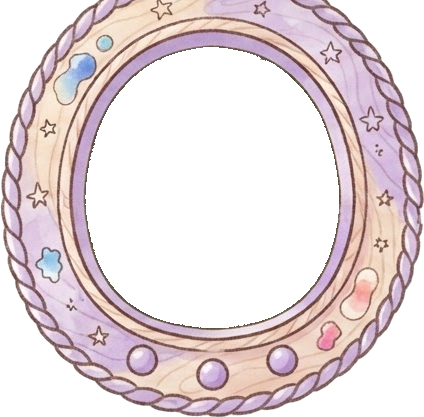
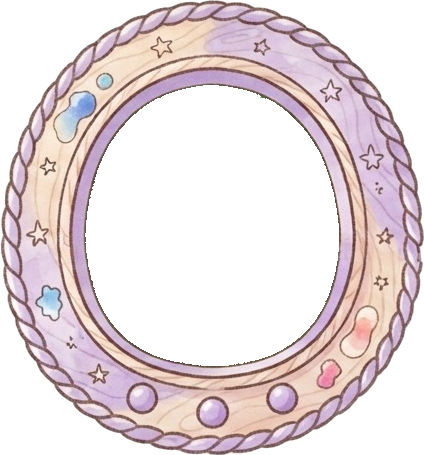
Tama : cadre entier, explications de Kykah et Koki à l'achat, plus d'œuf de Gaïkin
Claude-Session: https://claude.ai/code/session_014bi368SbjZ4sCSmbjCzFcj

diff --git a/game.js b/game.js
@@ -539,6 +539,7 @@ function load(n) {
   if (isFinite(s.dayT)) dayT = s.dayT; Object.assign(inv, s.inv); Object.assign(qState, s.qState); Object.assign(opened, s.opened || {}); Object.assign(bonusStar, s.bonusStar || {}); setLevel(s.level || 'aventure'); Object.assign(coll, s.coll || {});
   phase = s.phase === 'reveal' ? 'appeared' : (s.phase || 'quests'); mountUnlocked = !!s.mountUnlocked; introSeen = !!s.introSeen; endingSeen = !!s.endingSeen; rideT = 0;
   if (s.post) post = Object.assign({ day: -1, reqs: [], nd: 0, ring: null, fea: null, mus: {}, egg: 0, eggDay: 0, stk: [] }, s.post); else post = { day: -1, reqs: [], nd: 0, ring: null, fea: null, mus: {}, egg: 0, eggDay: 0, stk: [] }; lastPos = s.pos || null; saveTs = s.ts || 0; playerName = typeof s.name === 'string' ? s.name.slice(0, 16) : ''; setOutfit(s.outfit); Object.assign(mini, { fire: 0, wish: 0, rico: 0, neck: 0 }, s.mini || {});
+  post.egg = 9;   // les bébés cygnes vivent maintenant dans le Tama (plus d'œuf ni de nid sur la plage)
   if (Array.isArray(s.garden)) gd = gdEmpty().map((e, i) => { const o = s.garden[i] || {}; return { c: Number.isInteger(o.c) && o.c >= 0 && o.c < 6 ? o.c : -1, w: +o.w ? 1 : 0, e: isFinite(o.e) ? Math.max(0, +o.e) : (o.w > 1 ? Math.min(240, (Date.now() - o.w) / 1000) : 0), v: (o.v | 0) & 3 }; });
   if (s.kob) { kobPick = s.kob.p || {}; kobNew = s.kob.n || {}; kobQ = s.kob.q | 0; vetS = s.kob.v || {}; vetAdv = s.kob.a || {}; kobRx = s.kob.x || {}; kobD = Object.assign({ acc: {}, done: {}, fr: {}, fi: {}, st: 0, rw: 0 }, s.kob.d || {}); kobKoa = s.kob.k || {}; kobSick = !(kobQ >= 5); if (KOB_PLT.every(p => kobPick[p.k]) && kobQ === 1) kobQ = 2; if (kobQ === 6) try { vetNext(); } catch (e) {} }
   try { paintLoadHung(); } catch (e) {}
@@ -1758,7 +1759,7 @@ function taAsk(html, btns, cb) {   // petite bulle de question (Oui / Non…)
   d.addEventListener('pointerdown', e => { const b = e.target.closest('button'); if (!b) return; e.preventDefault(); e.stopPropagation(); d.remove(); cb(+b.dataset.i); });
   document.body.appendChild(d); return d;
 }
-const taFr = k => 'assets/tamak/' + (k === 'koala' ? 'frame_k' : 'frame') + '.png?v=1', taBt = (k, b) => 'assets/tamak/' + (k === 'koala' ? 'k' : '') + b + '.png?v=1';
+const taFr = k => 'assets/tamak/' + (k === 'koala' ? 'frame_k' : 'frame') + '.png?v=2', taBt = (k, b) => 'assets/tamak/' + (k === 'koala' ? 'k' : '') + b + '.png?v=1';
 function taStart(k) {   // on touche un tama dans le sac
   const s = taAll()[k]; if (!s) return;
   taAsk('Veux-tu jouer avec ' + (s.name || TAP[k].egg) + ' ?', [['Oui'], ['Non', 1]], i => { if (i === 0) taOpen(k); });
@@ -1803,8 +1804,8 @@ $('#inv').addEventListener('pointerdown', e => { const b = e.target.closest && e
 .taBox{position:relative;width:min(92vw,380px);background:#fff8ec;border:3px solid #c9a6e0;border-radius:24px;padding:12px 10px 10px;text-align:center;color:#4b2a7a;box-shadow:0 10px 30px rgba(0,0,0,.35)}
 .taX{position:absolute;right:8px;top:8px;width:36px;height:36px;border-radius:50%;border:2.5px solid #c9a6e0;background:#fff;color:#6b3fa0;font-size:18px;font-weight:800;cursor:pointer}
 .taName{font-weight:800;font-size:20px;margin:2px 40px 6px}.taName small{font-size:14px;color:#8a6aa8}
-.taDev{position:relative;width:min(78vw,300px);margin:0 auto;aspect-ratio:424/417}
-.taScr{position:absolute;left:20.5%;top:11.75%;width:59%;height:66.4%;border-radius:50%/48%;overflow:hidden;display:flex;align-items:flex-end;justify-content:center}
+.taDev{position:relative;width:min(74vw,290px);margin:6px auto 4px;aspect-ratio:424/457}
+.taScr{position:absolute;left:20.6%;top:19%;width:58.7%;height:60.7%;border-radius:50%/48%;overflow:hidden;display:flex;align-items:flex-end;justify-content:center}
 .taBg{position:absolute;inset:0;width:100%;height:100%;object-fit:cover}
 .taFr{position:absolute;inset:0;width:100%;height:100%;pointer-events:none}
 .taPet{position:relative;margin-bottom:9%;object-fit:contain;animation:taHop 1.6s ease-in-out infinite}
@@ -8163,7 +8164,7 @@ function kykahShop(e, free, epOnly, list, title) {
     const bjb = t.closest('button[data-bj]'); if (bjb) { stop(ev); if (bjb.disabled) return; const b = BIJOUX.find(x => x.id === bjb.dataset.bj); if (!b) return;
       if (!bijOwned(b.id)) { if ((inv.shell | 0) < b.shell || (inv.perle | 0) < (b.perle | 0)) return; inv.shell -= b.shell; inv.perle = (inv.perle | 0) - (b.perle | 0); mini.necks = mini.necks || {}; mini.necks[b.id] = 1; }
       outfit.neck = true; outfit.neckId = b.id; outfitDirty = true; bakeOutfit(); save(); renderHud(); try { sfx.chest(); if (b.leg) sfx.star(); } catch (e) {} say((b.leg ? '✨ ' : '') + b.nm + ' : Myah le porte ! Tu peux en changer au vestiaire.', 4); draw(); return; }
-    const tmb = t.closest('button[data-tam]'); if (tmb) { stop(ev); if (tmb.disabled) return; if (taAll()[tmb.dataset.tam]) { o.remove(); clearInput(); free(); taOpen(tmb.dataset.tam); return; } tamaBuy(tmb.dataset.tam); draw(); return; }
+    const tmb = t.closest('button[data-tam]'); if (tmb) { stop(ev); if (tmb.disabled) return; if (taAll()[tmb.dataset.tam]) { o.remove(); clearInput(); free(); taOpen(tmb.dataset.tam); return; } if (tamaBuy(tmb.dataset.tam)) { const k = tmb.dataset.tam; o.remove(); clearInput(); player.state = 'talk'; openDialog(k === 'koala' ? 'Koki' : 'Kykah', k === 'koala' ? ['Oh, tu as pris le Tama Koala ! 🐨', 'C\'est un vrai petit compagnon : dedans, il y a un œuf. Réchauffe-le trois fois avec le bouton A et il va éclore !', 'Ensuite, nourris-le avec A, lave-le avec B et joue avec lui avec X. S\'il est bien soigné, il grandit : bébé, enfant, ado, puis jeune adulte.', 'Tu le trouveras dans ton sac à dos. Prends-en bien soin !'] : ['Tu as choisi le Tama Cygne ! 🦢', 'Ce n\'est pas un jouet comme les autres : un vrai petit œuf de cygne t\'attend dedans. Touche trois fois le bouton A pour le réchauffer.', 'Quand il aura éclos, donne-lui à manger avec A, un bon bain avec B, et joue avec lui avec X. Plus tu t\'en occupes, plus il grandit !', 'Il est rangé dans ton sac à dos : ouvre-le quand tu veux.'], free); } else draw(); return; }
     const brb = t.closest('button[data-bra]'); if (brb) { stop(ev); if (brb.disabled) return; const id = brb.dataset.bra, bd = BR_LIST.find(b => b[0] === id), sh = bd[2], pe = bd[3]; mini.br = mini.br || {};
       if (!mini.br[id]) { if (!brCan(bd)) return; inv.shell -= sh; inv.perle = (inv.perle | 0) - pe; Object.entries(bd[5] || {}).forEach(([k, n]) => BR_X[k][2](n)); mini.br[id] = 1; if (!outfit.brR) outfit.brR = id; else if (!outfit.brL) outfit.brL = id; outfitDirty = true; }
       save(); renderHud(); try { sfx.chest(); } catch (e) {} say(bd[1] + ' : Myah le porte ! Change ses couleurs au vestiaire, onglet Bracelets.', 4); draw(); return; }

diff --git a/index.html b/index.html
@@ -1107,7 +1107,7 @@
           <div class="tiles"><button id="setSound" class="go alt wide tile"><span class="ti">🔊</span><span class="tl">Son</span></button></div>
         </div>
       </details>
-      <button id="setTips" class="go alt wide" style="margin:4px 0">💡 Astuces du jeu</button><button id="setOff" class="go alt wide" style="margin:4px 0">📥 Jouer hors ligne</button><div id="setVer" style="text-align:center;font-size:11px;opacity:.6;margin:2px 0">version 387</div>
+      <button id="setTips" class="go alt wide" style="margin:4px 0">💡 Astuces du jeu</button><button id="setOff" class="go alt wide" style="margin:4px 0">📥 Jouer hors ligne</button><div id="setVer" style="text-align:center;font-size:11px;opacity:.6;margin:2px 0">version 389</div>
       <details class="setGroup">
         <summary>✨ Affichage et confort</summary>
         <div class="setKid">
@@ -1183,7 +1183,7 @@
 <script src="mymask.js?v=4"></script>
 <script src="sprites.js?v=200"></script>
 <script src="art.js"></script>
-<script src="game.js?v=387"></script>
+<script src="game.js?v=389"></script>
 <script>if ('serviceWorker' in navigator) navigator.serviceWorker.register('sw.js', { updateViaCache: 'none' }).then(r => { if (navigator.onLine) r.update(); }).catch(() => {});</script>
 </body>
 </html>
